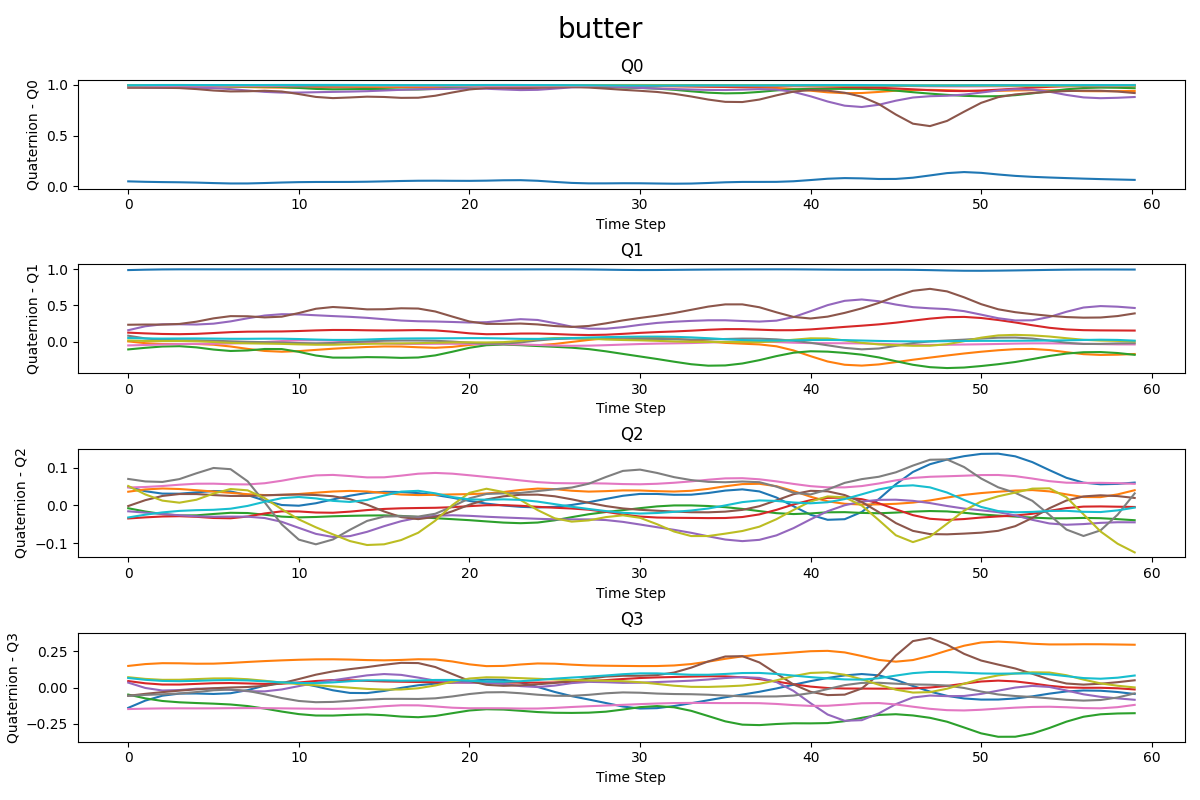
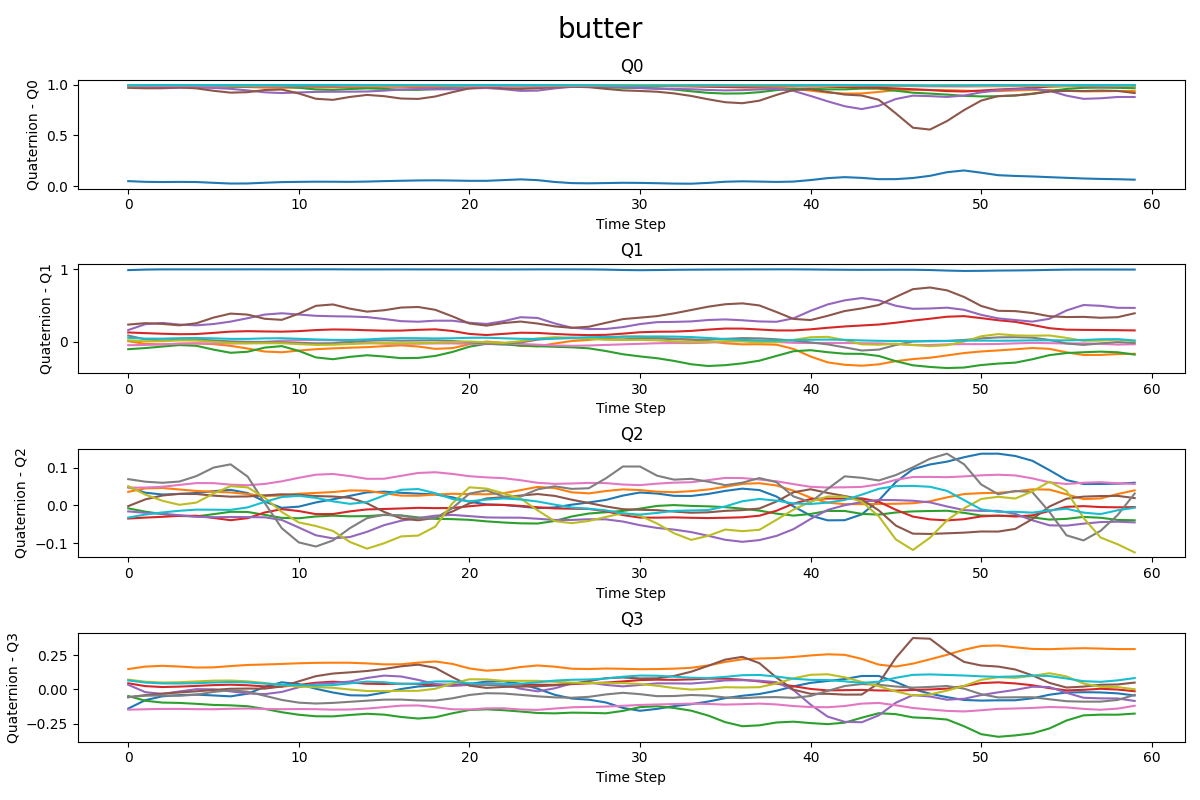
feat: update .gitignore

diff --git a/main.py b/main.py
@@ -55,56 +55,85 @@ for frame in range(frame_num):
 # 预处理
 
 # 滑动窗口
-smoothed_quaternions = denoise.smooth_quaternions(result_mat, 55,window_size=3)
+# smoothed_quaternions = denoise.smooth_quaternions(result_mat, 55,window_size=3)
 
-# butter
+# # butter
 butter_quaternions = denoise.butterworth(result_mat, 55)
 
-# fft
-fft_quaternions = denoise.fft_smooth(result_mat, frame_num, 55)
+# # fft
+# _smooth(result_mat, frame_num, 55, 0.7)
 
-# wiener filter
-wiener_quaternions = denoise.wiener_smooth(result_mat, 55)
+# # wiener filter
+# wiener_quaternions = denoise.wiener_smooth(result_mat, 55)
 
-# gaussian filter
-gaussian_quaternions = denoise.gaussian_smooth(result_mat, 55)
+# # gaussian filter
+# gaussian_quaternions = denoise.gaussian_smooth(result_mat, 55, 0.2)
 
 # 
 # visualize.save_result(result_mat, "4_2_0", "origin")
 # visualize.save_result(smoothed_quaternions, "4_2_1", "slide")
-# visualize.save_result(butter_quaternions, "4_2_2", "butter")
+visualize.save_result(butter_quaternions, "4_2_2", "butter")
 # visualize.save_result(fft_quaternions, "4_2_3", "fft")
 # visualize.save_result(wiener_quaternions, "4_2_4", "wiener")
 # visualize.save_result(gaussian_quaternions, "4_2_5", "gaussian")
 
 import evaluate
-result = evaluate.mse_quaternions(result_mat, smoothed_quaternions)
-print("MSE Slide:", result)
+# result = evaluate.mse_quaternions(result_mat, smoothed_quaternions)
+# print("MSE Slide:", result)
 
-result = evaluate.mse_quaternions(result_mat, butter_quaternions)
-print("MSE butter:", result)
+# result = evaluate.mse_quaternions(result_mat, butter_quaternions)
+# print("MSE butter:", result)
 
-result = evaluate.mse_quaternions(result_mat, fft_quaternions)
-print("MSE fft:", result)
+# result = evaluate.mse_quaternions(result_mat, fft_quaternions)
+# print("MSE fft:", result)
 
-result = evaluate.mse_quaternions(result_mat, wiener_quaternions)
-print("MSE wiener:", result)
+# result = evaluate.mse_quaternions(result_mat, wiener_quaternions)
+# print("MSE wiener:", result)
 
-result = evaluate.mse_quaternions(result_mat, gaussian_quaternions)
-print("MSE gaussian:", result)
+# result = evaluate.mse_quaternions(result_mat, gaussian_quaternions)
+# print("MSE gaussian:", result)
 
 
-result = evaluate.psnr_quaternions(result_mat, smoothed_quaternions)
-print("PSNR Slide:", result)
+# result = evaluate.psnr_quaternions(result_mat, smoothed_quaternions)
+# print("PSNR Slide:", result)
 
-result = evaluate.psnr_quaternions(result_mat, butter_quaternions)
-print("PSNR butter:", result)
+# result = evaluate.psnr_quaternions(result_mat, butter_quaternions)
+# print("PSNR butter:", result)
 
-result = evaluate.psnr_quaternions(result_mat, fft_quaternions)
-print("PSNR fft:", result)
+# result = evaluate.psnr_quaternions(result_mat, fft_quaternions)
+# print("PSNR fft:", result)
 
-result = evaluate.psnr_quaternions(result_mat, wiener_quaternions)
-print("PSNR wiener:", result)
+# result = evaluate.psnr_quaternions(result_mat, wiener_quaternions)
+# print("PSNR wiener:", result)
 
-result = evaluate.psnr_quaternions(result_mat, gaussian_quaternions)
-print("PSNR gaussian:", result)
+# result = evaluate.psnr_quaternions(result_mat, gaussian_quaternions)
+# print("PSNR gaussian:", result)
+# import numpy as np
+
+# window_sizes = np.arange(0, 1, 0.1)
+
+# psnr_values = []
+
+# for size in window_sizes:
+#     quaternions = denoise.fft_smooth(result_mat,frame_num, 55, size)
+#     current_psnr = evaluate.psnr_quaternions(result_mat, quaternions)
+#     psnr_values.append(current_psnr)
+
+# print(psnr_values)
+
+# import matplotlib.pyplot as plt
+
+# plt.figure(figsize=(10, 6))
+# plt.plot(window_sizes, psnr_values, marker='o', linestyle='-')
+# plt.title('Fourier - PSNR')
+# plt.xlabel('Cutoff Ratio')
+# plt.ylabel('PSNR')
+# plt.grid(True)
+# plt.show()
+# filename = "fourier_psnr"
+# import os
+# output_path = os.path.join("img", filename)
+# plt.savefig(output_path)
+
+# 3D曲面
+

diff --git a/denoise.py b/denoise.py
@@ -22,10 +22,10 @@ def smooth_quaternions(quaternions, joint_num, window_size=5):
 from scipy.signal import butter, filtfilt
 
 
-def butterworth(matrix, joint_num):
+def butterworth(matrix, joint_num, cutoff = 8):
     # 设定滤波器参数
     fs = 30  # 假设采样频率是30Hz
-    cutoff = 5  # 截止频率3Hz
+    # cutoff = 5  # 截止频率3Hz
     order = 2  # 滤波器阶数
 
     # 设计滤波器
@@ -40,7 +40,7 @@ def butterworth(matrix, joint_num):
     return filtered_quaternions
 
 from scipy.fft import fft, ifft, fftfreq
-def fft_smooth(matrix, num_frames, num_joints):
+def fft_smooth(matrix, num_frames, num_joints, cutoff_ratio=0.3):
     print(matrix.shape)
     quaternion_freqs = np.empty_like(matrix, dtype=np.complex)
     freqs = fftfreq(num_frames)
@@ -50,7 +50,7 @@ def fft_smooth(matrix, num_frames, num_joints):
             quaternion_freqs[:, i, j] = fft(matrix[:, i, j])
 
     max_freq = np.abs(freqs).max()
-    cutoff_frequency = 0.3 * max_freq  # 设定截止频率为最大频率的20%
+    cutoff_frequency = cutoff_ratio * max_freq  # 设定截止频率为最大频率的20%
     # cutoff_frequency = 0.1  # 设定截止频率
     low_pass_filter = np.abs(freqs) < cutoff_frequency
     
@@ -67,19 +67,19 @@ def fft_smooth(matrix, num_frames, num_joints):
 
 from scipy.signal import welch, wiener
 
-def wiener_smooth(matrix,num_joints):
+def wiener_smooth(matrix,num_joints, noise = 0.01):
     filtered_quaternions = np.empty_like(matrix)
     for i in range(num_joints):
         for j in range(4):  # 四元数的每个分量
             # 边缘扩展
             # extended_data = np.pad(matrix[:, i, j], (1, 1), mode='edge')
             
-            filtered_quaternions[:, i, j] = wiener(matrix[:, i, j], mysize=3, noise=0.01)
+            filtered_quaternions[:, i, j] = wiener(matrix[:, i, j], mysize=3, noise = noise)
     return filtered_quaternions
 
-def gaussian_smooth(matrix,num_joints):
-    kernel_size = 5  # 核大小
-    sigma = 1.0
+def gaussian_smooth(matrix,num_joints, sigma = 0.1):
+    kernel_size = 3  # 核大小
+    # sigma = 1.0
     kernel = np.exp(-np.square(np.arange(kernel_size) - kernel_size // 2) / (2 * sigma ** 2))
     kernel /= np.sum(kernel)  # 归一化使总和为1
     smoothed_quaternions = np.empty_like(matrix)
